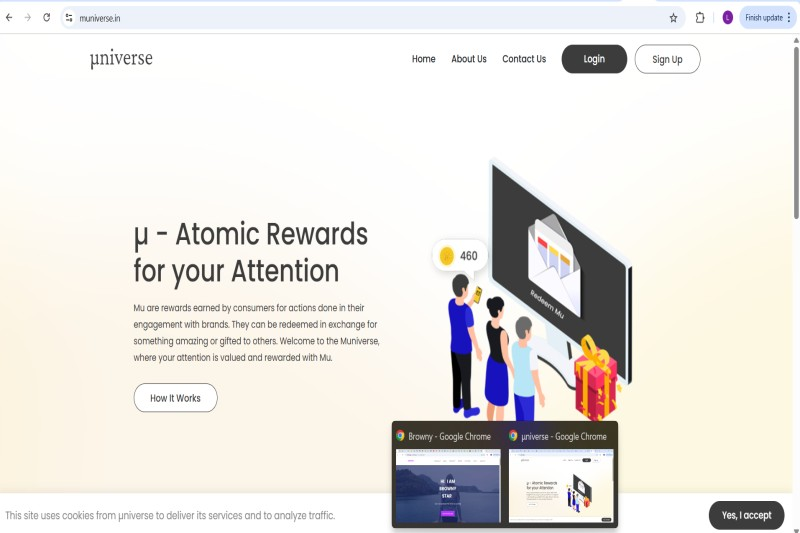
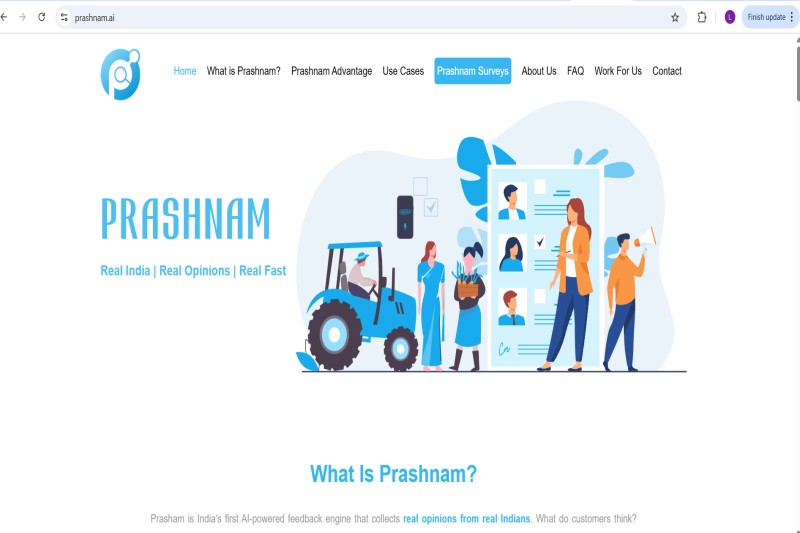
changes in images

diff --git a/index.html b/index.html
@@ -884,7 +884,7 @@
 							</div>
 							<div class="col-md-6 animate-box tabcontent laravel" data-animate-effect="fadeInTop"
 								style="display: none;">
-								<div class="project" style="background-image: url(images/img-3.png);">
+								<div class="project" style="background-image: url(images/img-3.jpg);">
 									<div class="desc">
 										<div class="con">
 											<h3><a href="https://prashnam.ai/">Prashnam</a></h3>
@@ -898,7 +898,7 @@
 									</div>
 								</div>
 							</div>
-							<div class="col-md-6 animate-box tabcontent codeigniter" data-animate-effect="fadeInBottom">
+							<div class="col-md-6 animate-box tabcontent laravel" data-animate-effect="fadeInBottom">
 								<div class="project" style="background-image: url(images/img-4.png);">
 									<div class="desc">
 										<div class="con">
@@ -913,21 +913,17 @@
 									</div>
 								</div>
 							</div>
-							<div class="col-md-6 animate-box tabcontent codeigniter" data-animate-effect="fadeInLeft">
+							<!-- <div class="col-md-6 animate-box tabcontent codeigniter" data-animate-effect="fadeInLeft">
 								<div class="project" style="background-image: url(images/img-5.png);">
 									<div class="desc">
 										<div class="con">
 											<h3><a href="http://sevagroup.co.in/sevagroup/">Social</a></h3>
 											<span>Website</span>
-											<!-- <p class="icon">
-												<span><a href="#"><i class="icon-share3"></i></a></span>
-												<span><a href="#"><i class="icon-eye"></i> 100</a></span>
-												<span><a href="#"><i class="icon-heart"></i> 49</a></span>
-											</p> -->
+											
 										</div>
 									</div>
 								</div>
-							</div>
+							</div> -->
 
 							<div class="col-md-6 animate-box tabcontent codeigniter" data-animate-effect="fadeInLeft">
 								<div class="project" style="background-image: url(images/img-6.jpg);">
